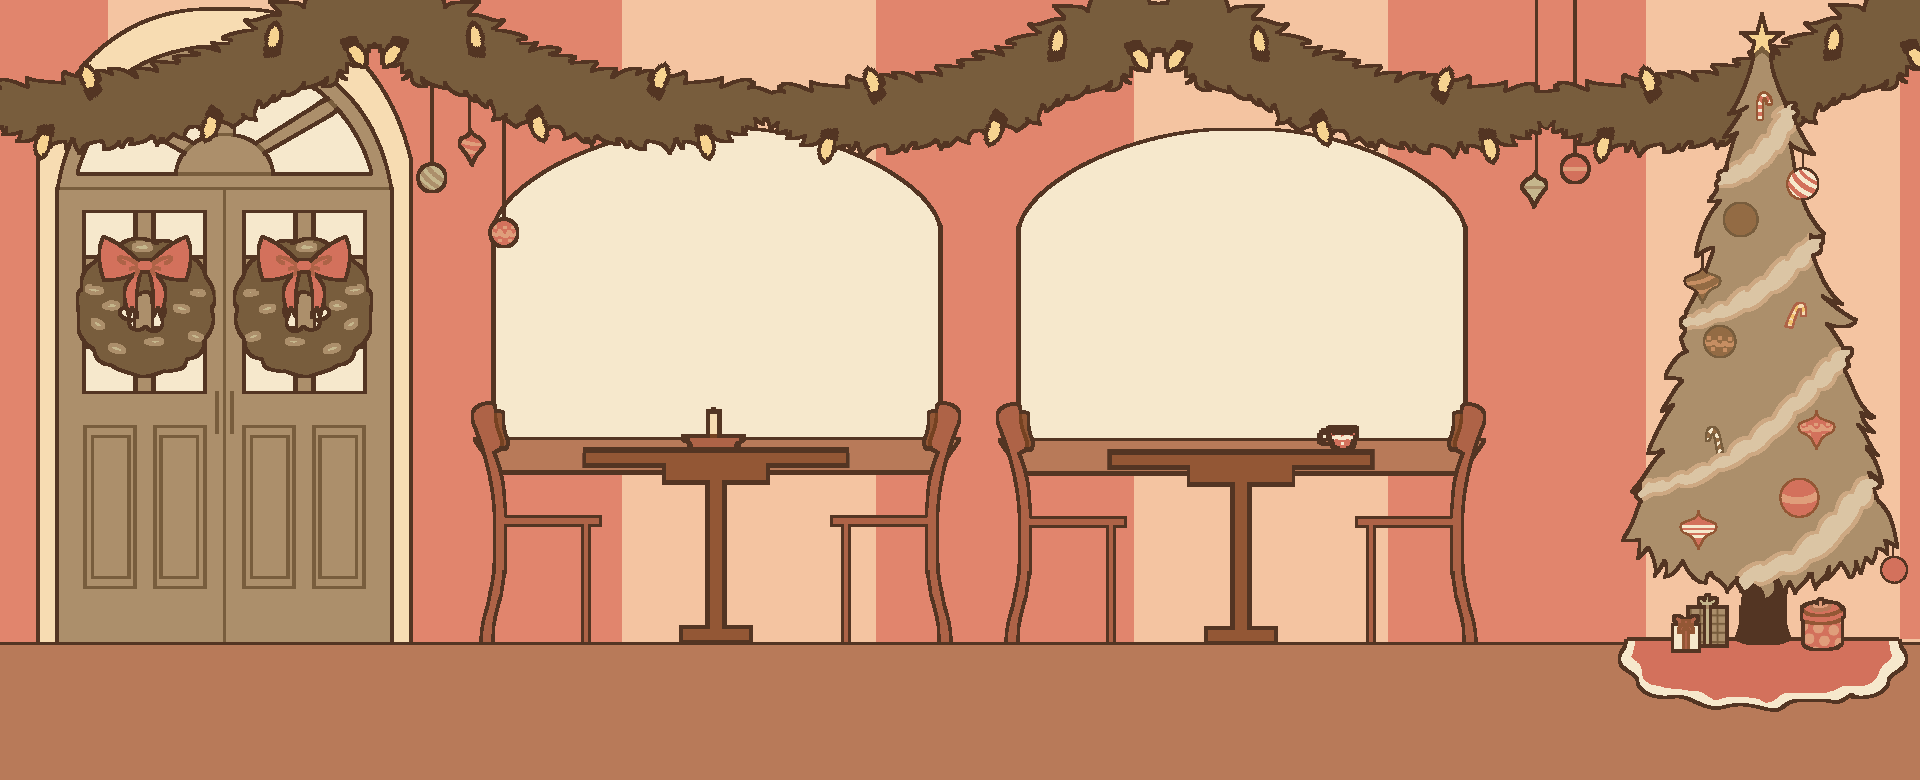
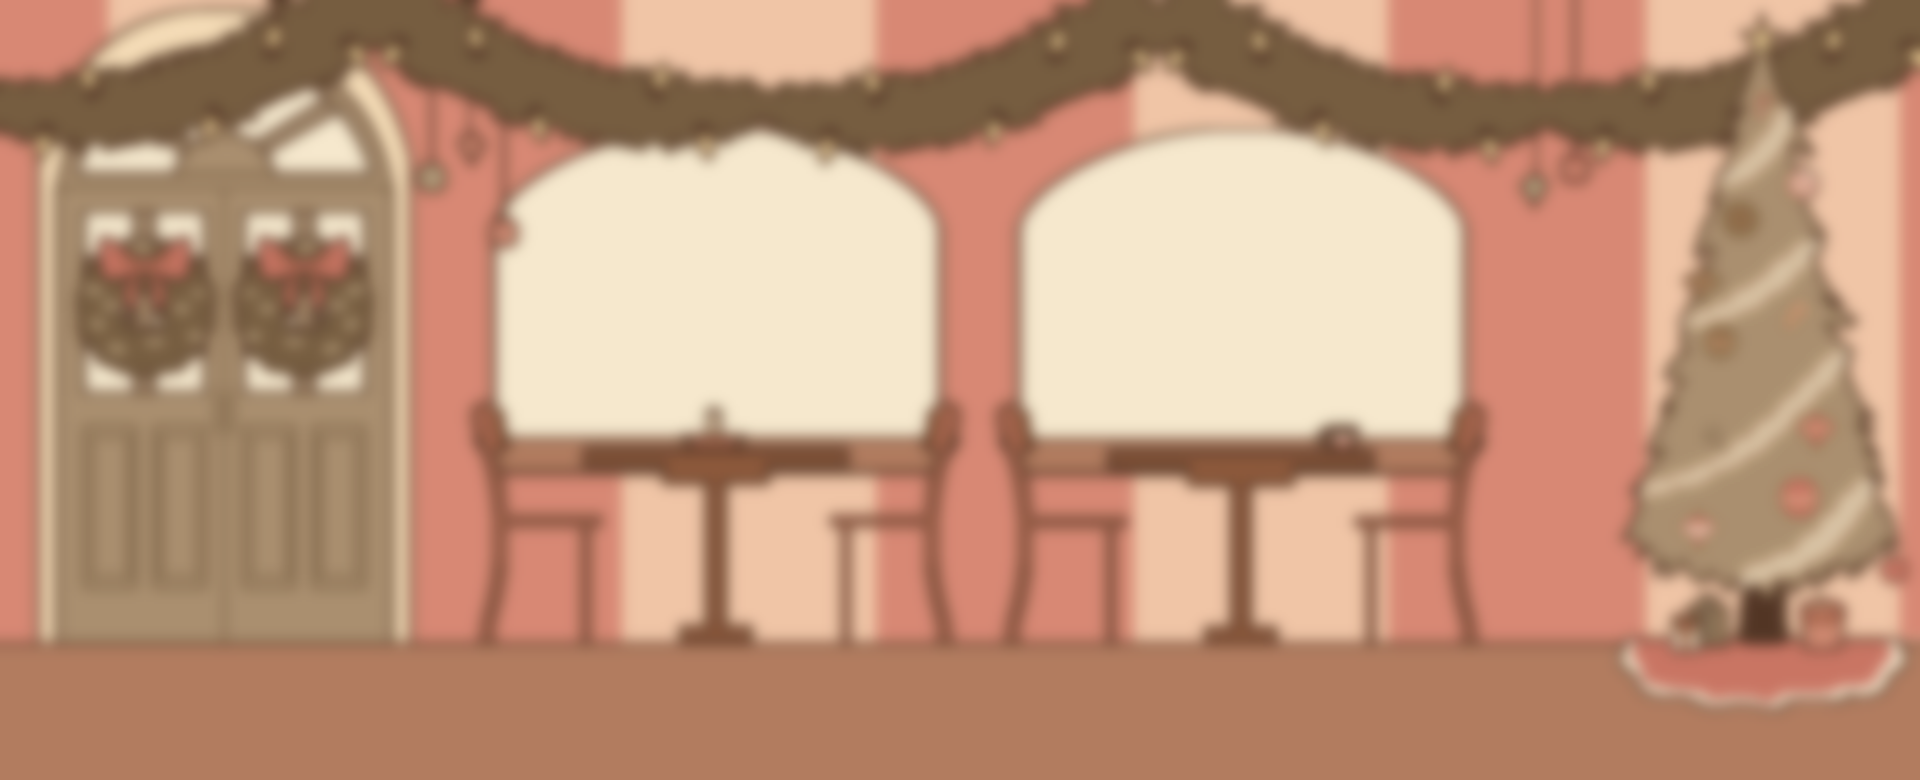
added bad end and game end css

Changed region(s): [[0.0, 0.0, 1.0, 0.9231]]

diff --git a/Pages/gameEnd/gameEnd.Js b/Pages/gameEnd/gameEnd.Js
@@ -3,4 +3,35 @@ function calculateEndType(){
     const ok = Number(localStorage.getItem("okOrds")) * 1
     const good = Number(localStorage.getItem("goodOrds")) * 2
     const totalScore = ok + good;
+    if (totalScore<24){
+        makeEnd("Bad")
+    }
+    else if (totalScore<48){
+        makeEnd("Ok")
+    }
+    else{
+        makeEnd("Good")
+    }
+}
+
+function makeEnd(endType){
+    changeHeading(endType)
+    changeText(endType)
+}
+
+function changeHeading(endType){
+    const heading = document.getElementById("endingType")
+    heading.textContent = endType + " Ending"
+}
+
+function changeText(endType){
+    const desc = document.getElementById("endText")
+    if (endType == "Bad"){
+        desc.textContent = "Due to the lack of good hot chocolate this year, the toymakers at the North Pole struggled to find the motivation to make toys. Ultimately, they were only able to make 60% of the presents they needed. Although Santa was sad he loaded up his sleigh and took off the with reindeer. Knowing that many children wouldn't recieve their christmas presents this year, the christmas spirit at the North Pole quickly waned and the reindeer lost power. Once the residents of the North Pole learned how you ruined Christmas you were banished and permanetly put on the naughty list."
+    }
+}
+
+function resetStorage(){
+    localStorage.clear()
+    sessionStorage.clear()
 }

diff --git a/Pages/gameEnd/gameEnd.html b/Pages/gameEnd/gameEnd.html
@@ -1,0 +1,28 @@
+<!DOCTYPE html>
+<html>
+    <head>
+        <title>Christmas Cafe</title>
+        <link rel="stylesheet" href="gameEnd.css">
+        <link rel="preconnect" href="https://fonts.googleapis.com">
+        <link rel="preconnect" href="https://fonts.gstatic.com" crossorigin>
+        <link href="https://fonts.googleapis.com/css2?family=Berkshire+Swash&display=swap" rel="stylesheet">
+        <link rel="preconnect" href="https://fonts.googleapis.com">
+        <link rel="preconnect" href="https://fonts.gstatic.com" crossorigin>
+        <link href="https://fonts.googleapis.com/css2?family=Snowburst+One&display=swap" rel="stylesheet">
+    </head>
+    <body>
+        <main>
+          <section id="endSect">
+              <h1 id="endingType"></h1>
+          </section>
+          <div>
+              <p id="endText">test text
+              </p>
+          </div>
+          <h4><a>Return to title screen</a></h4>
+          <script src="gameEnd.Js"></script>
+          <script>calculateEndType()</script>
+          <script>resetStorage()</script>
+        </main>
+    </body>
+</html>

diff --git a/Pages/gameEnd/gameEnd.css b/Pages/gameEnd/gameEnd.css
@@ -1,0 +1,44 @@
+body{
+    text-align: center;
+    align-content: center;
+    background-color: #553622;
+}
+
+main{
+    border: 0.75vh solid #553622;
+    background-color: #f5e8cf;
+    border-radius: 3vw;
+    font-size: 225%;
+}
+
+body, main{
+    margin: 0;
+}
+
+h1{
+    text-decoration: underline;
+    font-size: 400%;
+}
+
+h4{
+    font-size: 200%;
+}
+
+h4, h1, a{
+    -webkit-text-stroke: 0.25vh #534333;
+    color: #735e3f;
+    margin: 0vh 0vh 0vh 1.5vh; 
+}
+
+*{
+    color: #553622;
+}
+
+p{
+    font-family: Snowburst One;
+    flex-wrap: wrap;
+}
+
+a, h1{
+    font-family: Berkshire Swash;
+}

diff --git a/index.css b/index.css
@@ -3,16 +3,10 @@
 }
 
 body{
-<<<<<<< HEAD
-    background-image: url("Resources/order/Bg.png");
-    background-size: 100vw 75vh;
-}
-=======
     background-image: url("Resources/order/bg.png");
     background-size: 100vw 75vh;
 }
 
->>>>>>> a528768721defb9dd472f4d4446258d5a25182e0
 h1{
     font-family: Berkshire Swash;
     text-decoration: underline;

diff --git a/Pages/endDay/endDay.js b/Pages/endDay/endDay.js
@@ -65,7 +65,7 @@ function genStats(){
 
 function saveAndClear(){
     sessionStorage.clear()
-    if (Number(localStorage.getItem("daysWorked")) == 7){
+    if (Number(localStorage.getItem("daysWorked")) > 6){
        const theLink = document.getElementsByTagName("a")[0]; 
        theLink.href = "../gameEnd/gameEnd.html"
     }
